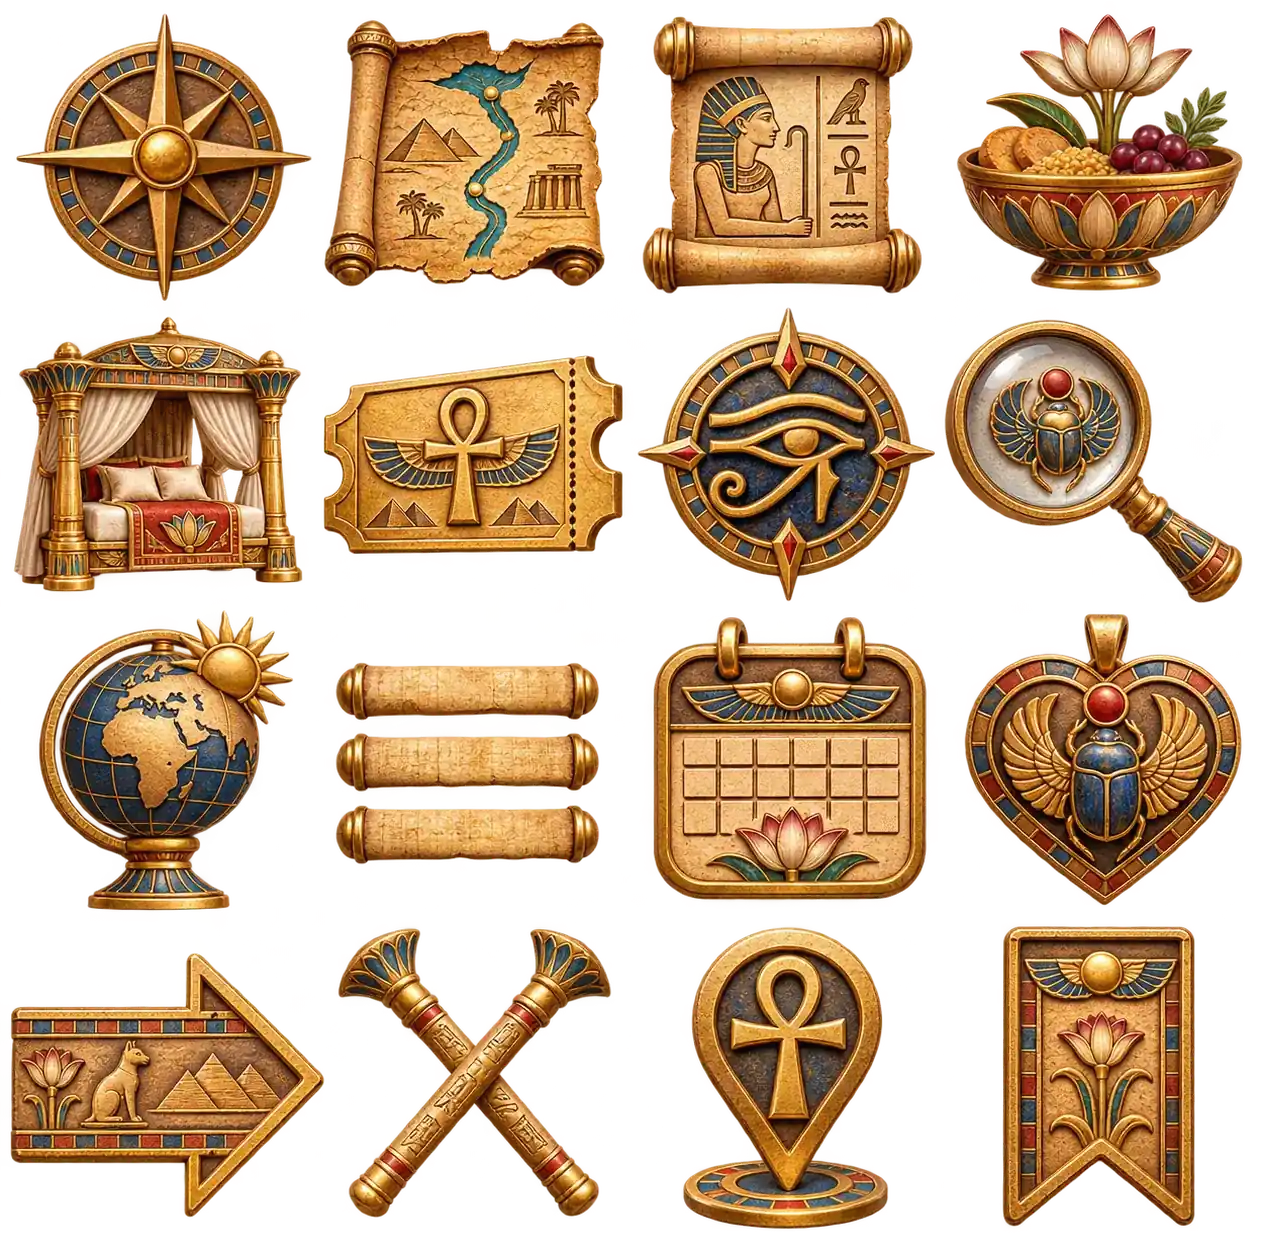
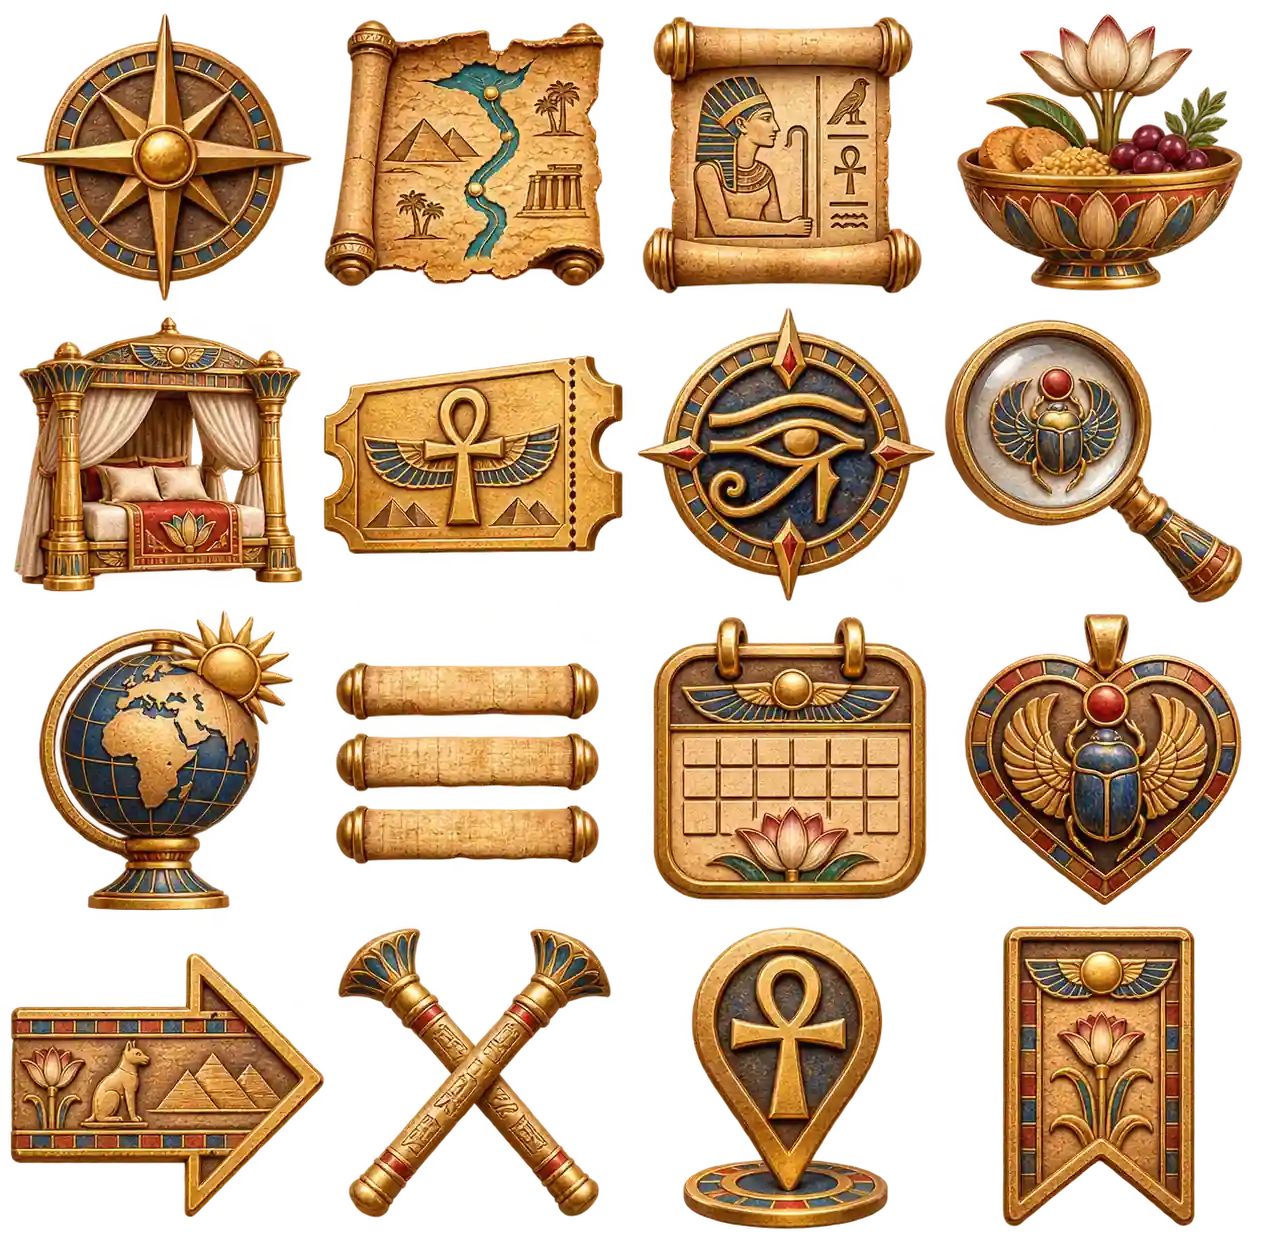
Optimize fonts, critical CSS, and homepage images

diff --git a/app/page.tsx b/app/page.tsx
@@ -480,7 +480,7 @@ export default function Home() {
           <div className="home-category-grid">
             {categories.map((category) => (
               <Link key={category.title} href={category.href} className={"home-category-card home-tone-" + category.tone}>
-                <Image className="home-category-image" src={category.image} alt="" fill sizes="(max-width: 760px) 100vw, 50vw" />
+                <Image className="home-category-image" src={category.image} alt="" fill sizes="(max-width: 760px) 100vw, 50vw" quality={60} />
                 <div className="home-category-overlay" />
                 <span className="home-category-icon"><Icon name={category.icon} size={19} /></span>
                 <div className="home-category-content"><p>{category.label}</p><h3>{category.title}</h3><span>{category.description}</span></div>
@@ -492,7 +492,7 @@ export default function Home() {
 
         {isAdmin ? <AdminWorkspaceSection /> : <section className="home-concierge-section" id="concierge">
           <div className="home-concierge-visual">
-            <Image className="home-concierge-image" src={inquiryMode === "contact" ? "/alpnile-contact-studio-v2.webp" : "/alpnile-concierge-v2.webp"} alt="" fill sizes="(max-width: 980px) 100vw, 50vw" />
+            <Image className="home-concierge-image" src={inquiryMode === "contact" ? "/alpnile-contact-studio-v2.webp" : "/alpnile-concierge-v2.webp"} alt="" fill sizes="(max-width: 980px) 100vw, 50vw" quality={60} />
             <div className="home-concierge-visual-overlay" />
             <div className="home-concierge-visual-caption"><span>ALPNILE CONCIERGE</span><strong>One thoughtful<br />conversation.</strong></div>
           </div>
@@ -537,7 +537,7 @@ export default function Home() {
           <div className="home-city-grid">
             {cities.map((city, index) => (
               <Link key={city.name} href={city.href} className={"home-city-card home-city-card-" + (index + 1)}>
-                <Image className="home-city-image" src={city.image} alt="" fill sizes="(max-width: 760px) 100vw, 50vw" />
+                <Image className="home-city-image" src={city.image} alt="" fill sizes="(max-width: 760px) 100vw, 50vw" quality={60} />
                 <div className="home-city-overlay" />
                 <div className="home-city-content"><p>{city.region}</p><h3>{city.name}</h3><span>{city.description}</span><b>Discover city <Icon name="arrow" size={14} /></b></div>
                 <span className="home-city-index">0{index + 1}</span>
@@ -550,7 +550,7 @@ export default function Home() {
           <SectionHeading eyebrow="The days you will remember" title="Signature trips, thoughtfully made." description="Not a checklist. A point of view — built around atmosphere, timing and the people who make a place feel real." action={{ label: "See every experience", href: "/tours-experiences" }} />
           <div className="home-trip-category-grid" aria-label="Egypt trip categories">
             {tripCategories.map((category, index) => <Link key={category.key} href={category.href} className={`home-trip-category-card home-tone-${category.tone}`}>
-              <span className="home-trip-category-card-image"><Image src={category.image} alt="" fill sizes="(max-width: 760px) 50vw, 25vw" /></span>
+              <span className="home-trip-category-card-image"><Image src={category.image} alt="" fill sizes="(max-width: 760px) 50vw, 25vw" quality={60} /></span>
               <span className="home-trip-category-card-overlay" />
               <span className="home-trip-category-card-top"><span className="home-trip-category-number">{String(index + 1).padStart(2, "0")}</span><span className="home-trip-category-icon"><Icon name={category.icon} size={17} /></span></span>
               <span className="home-trip-category-card-copy"><strong>{category.label}</strong><small>{category.detail}</small></span>
@@ -559,19 +559,19 @@ export default function Home() {
         </section>
 
         <section className="home-stay-feature" id="stays">
-          <div className="home-stay-feature-media"><Image className="home-stay-feature-image" src="/alpnile-stays-hotels-v2.webp" alt="" fill sizes="(max-width: 980px) 100vw, 50vw" /></div>
+          <div className="home-stay-feature-media"><Image className="home-stay-feature-image" src="/alpnile-stays-hotels-v2.webp" alt="" fill sizes="(max-width: 980px) 100vw, 50vw" quality={60} /></div>
           <div className="home-stay-feature-copy">
             <p className="home-redesign-eyebrow">Sleep somewhere with a story</p>
             <h2>Stay close<br /><em>to the feeling.</em></h2>
             <p>From heritage residences beside the Nile to private homes made for slow mornings, choose a place that becomes part of the journey.</p>
             <Link className="home-redesign-primary-button" href="/stays-hotels">Find your stay <Icon name="arrow" size={16} /></Link>
-            <div className="home-stay-mini-list">{homes.map((home) => <Link key={home.name} href={home.href}><span className="home-stay-mini-image"><Image src={home.image} alt="" fill sizes="41px" /></span><span><strong>{home.name}</strong><small>{home.place}</small></span><Icon name="arrow" size={13} /></Link>)}</div>
+            <div className="home-stay-mini-list">{homes.map((home) => <Link key={home.name} href={home.href}><span className="home-stay-mini-image"><Image src={home.image} alt="" fill sizes="41px" quality={60} /></span><span><strong>{home.name}</strong><small>{home.place}</small></span><Icon name="arrow" size={13} /></Link>)}</div>
           </div>
         </section>
 
         <section className="home-redesign-section home-market-section" id="market">
           <div className="home-market-archive">
-            <div className="home-market-archive-bg" aria-hidden="true"><Image className="home-market-archive-bg-image" src="/alpnile-artifacts-3d.webp" alt="" fill sizes="100vw" /></div>
+          <div className="home-market-archive-bg" aria-hidden="true"><Image className="home-market-archive-bg-image" src="/alpnile-artifacts-3d.webp" alt="" fill sizes="100vw" quality={60} /></div>
             <div className="home-market-archive-panel">
               <div className="home-market-archive-copy">
                 <p className="home-market-chapter">01 <i /> 06 CHAPTERS</p>
@@ -593,7 +593,7 @@ export default function Home() {
               <div className="home-market-archive-explore">
                 <div className="home-market-explore-head"><div><p className="home-redesign-eyebrow">Objects with a sense of place</p><h3>Explore artifacts</h3></div><Link href="/market">View all <Icon name="arrow" size={13} /></Link></div>
                 <div className="home-market-artifact-grid">
-                  {products.map((product, index) => <Link key={product.name} href={product.href} className="home-market-artifact-card"><span className="home-market-artifact-number">0{index + 1}</span><div className="home-market-artifact-image"><Image src={product.image} alt="" fill sizes="(max-width: 760px) 100vw, 33vw" /></div><span className="home-market-artifact-copy"><strong>{product.name}</strong><small>{product.detail}</small></span><Icon name="arrow" size={13} /></Link>)}
+                  {products.map((product, index) => <Link key={product.name} href={product.href} className="home-market-artifact-card"><span className="home-market-artifact-number">0{index + 1}</span><div className="home-market-artifact-image"><Image src={product.image} alt="" fill sizes="(max-width: 760px) 100vw, 33vw" quality={60} /></div><span className="home-market-artifact-copy"><strong>{product.name}</strong><small>{product.detail}</small></span><Icon name="arrow" size={13} /></Link>)}
                 </div>
                 <p className="home-market-archive-note"><span /> Where the river became a kingdom, and stone learned to speak.</p>
               </div>
@@ -645,7 +645,7 @@ export default function Home() {
         </section>
 
         {!isAdmin && <section className="home-car-section" id="car-booking">
-          <div className="home-car-background" aria-hidden="true"><Image className="home-car-background-image" src="/alpnile-cars-v2.webp" alt="" fill sizes="100vw" /></div>
+                  <div className="home-car-background" aria-hidden="true"><Image className="home-car-background-image" src="/alpnile-cars-v2.webp" alt="" fill sizes="100vw" quality={60} /></div>
           <div className="home-car-shade" aria-hidden="true" />
           <div className="home-car-content">
              <div className="home-car-copy"><p className="home-redesign-eyebrow">Your road, your rhythm</p><h2>Move through Egypt<br /><em>with ease.</em></h2><p>Book a comfortable tourist car and keep the day open for the moments that were not on the itinerary.</p><div className="home-car-points"><span><Icon name="car" size={16} /> Comfortable cars</span><span><Icon name="pin" size={16} /> Local route support</span><span><Icon name="spark" size={16} /> Flexible days</span></div><Link className="home-car-transport-link" href="/travel-transport">Explore Travel &amp; Transport</Link></div>

diff --git a/app/globals.css b/app/globals.css
@@ -1,59 +1,3 @@
-@font-face {
-  font-family: "Cormorant Garamond";
-  font-style: normal;
-  font-weight: 500;
-  font-display: swap;
-  src: url("/fonts/cormorant-garamond-500.ttf") format("truetype");
-}
-
-@font-face {
-  font-family: "Cormorant Garamond";
-  font-style: normal;
-  font-weight: 600;
-  font-display: swap;
-  src: url("/fonts/cormorant-garamond-600.ttf") format("truetype");
-}
-
-@font-face {
-  font-family: "Cormorant Garamond";
-  font-style: normal;
-  font-weight: 700;
-  font-display: swap;
-  src: url("/fonts/cormorant-garamond-700.ttf") format("truetype");
-}
-
-@font-face {
-  font-family: "Manrope";
-  font-style: normal;
-  font-weight: 400;
-  font-display: swap;
-  src: url("/fonts/manrope-400.ttf") format("truetype");
-}
-
-@font-face {
-  font-family: "Manrope";
-  font-style: normal;
-  font-weight: 500;
-  font-display: swap;
-  src: url("/fonts/manrope-500.ttf") format("truetype");
-}
-
-@font-face {
-  font-family: "Manrope";
-  font-style: normal;
-  font-weight: 600;
-  font-display: swap;
-  src: url("/fonts/manrope-600.ttf") format("truetype");
-}
-
-@font-face {
-  font-family: "Manrope";
-  font-style: normal;
-  font-weight: 700;
-  font-display: swap;
-  src: url("/fonts/manrope-700.ttf") format("truetype");
-}
-
 @tailwind base;
 @tailwind components;
 @tailwind utilities;
@@ -5249,7 +5193,7 @@ body::-webkit-scrollbar-thumb:hover {
 
 /* Premium typography and the AlpNile pharaonic 3D icon language. */
 body {
-  font-family: "Manrope", Arial, Helvetica, sans-serif;
+  font-family: var(--font-manrope), Arial, Helvetica, sans-serif;
   letter-spacing: -.005em;
 }
 
@@ -5258,7 +5202,7 @@ h2,
 h3,
 h4,
 .font-display {
-  font-family: "Cormorant Garamond", Georgia, "Times New Roman", serif !important;
+  font-family: var(--font-cormorant), Georgia, "Times New Roman", serif !important;
   font-weight: 600;
   letter-spacing: -.025em;
 }
@@ -9565,7 +9509,7 @@ form .site-select:focus,
 }
 
 /* Habu Sunset Villa direct-booking experience. */
-.villa-booking-page { --villa-ink: #183332; --villa-teal: #1e6260; --villa-gold: #c48a42; --villa-line: #dfe5df; --villa-paper: #f7f8f4; min-height: 100vh; overflow: hidden; color: var(--villa-ink); background: #f7f8f4; color-scheme: light; font-family: Manrope, Arial, sans-serif; }
+.villa-booking-page { --villa-ink: #183332; --villa-teal: #1e6260; --villa-gold: #c48a42; --villa-line: #dfe5df; --villa-paper: #f7f8f4; min-height: 100vh; overflow: hidden; color: var(--villa-ink); background: #f7f8f4; color-scheme: light; font-family: var(--font-manrope), Arial, sans-serif; }
 .villa-booking-wrap { width: min(1240px, calc(100% - 48px)); margin: 0 auto; }
 .villa-booking-topline { color: #f5f5ee; background: #12302f; font-size: 10px; letter-spacing: .06em; }
 .villa-booking-topline-inner { display: flex; align-items: center; justify-content: space-between; gap: 14px; min-height: 36px; }
@@ -9908,7 +9852,7 @@ form .site-select:focus,
 @media (max-width: 600px) { .admin-rate-row { grid-template-columns: 42px minmax(0, 1fr) auto; gap: 9px; } .admin-rate-name { grid-column: 2 / -1; grid-row: 2; } .admin-rate-row input { grid-column: 1 / -1; grid-row: 3; } .admin-rate-symbol { grid-column: 3; grid-row: 1; } .admin-pagination-count { width: 100%; margin-left: 0; } .admin-editor-image-actions { grid-template-columns: 1fr; } .admin-editor-remove-image { min-height: 42px; } .admin-editor-gallery-preview { grid-template-columns: repeat(2, minmax(0, 1fr)); } }
 
 /* Stays catalogue: homes, hotel rooms, apartments and villas. */
-.stays-catalog-page { min-height: 100vh; overflow: hidden; color: #193433; background: #f6f8f4; font-family: Manrope, Arial, sans-serif; }
+.stays-catalog-page { min-height: 100vh; overflow: hidden; color: #193433; background: #f6f8f4; font-family: var(--font-manrope), Arial, sans-serif; }
 .stays-catalog-wrap { width: min(1240px, calc(100% - 48px)); margin: 0 auto; }
 .stays-catalog-hero { position: relative; overflow: hidden; padding: 64px 0 42px; color: #f0f4ec; background: linear-gradient(105deg, rgba(8, 34, 34, .98) 0%, rgba(11, 56, 53, .88) 56%, rgba(11, 56, 53, .55) 100%), url('/alpnile-stays-hotels-hero.webp') center 48% / cover; }
 .stays-catalog-hero::after { position: absolute; inset: 0; pointer-events: none; background: radial-gradient(circle at 82% 11%, rgba(239, 189, 104, .22), transparent 27%), linear-gradient(90deg, transparent, rgba(255,255,255,.04)); content: ""; }
@@ -10087,7 +10031,7 @@ footer.site-stays-chrome .site-footer-newsletter-form button { color: #fff; back
 footer.site-stays-chrome .site-footer-newsletter-success { color: #2f8063; }
 
 /* Desert bazaar storefront. */
-.bazaar-page { min-height: 100vh; overflow: hidden; color: #39271b; background: #f7f0e4; font-family: Manrope, Arial, sans-serif; }
+.bazaar-page { min-height: 100vh; overflow: hidden; color: #39271b; background: #f7f0e4; font-family: var(--font-manrope), Arial, sans-serif; }
 .bazaar-wrap { width: min(1180px, calc(100% - 48px)); margin: 0 auto; }
 .bazaar-hero { position: relative; overflow: hidden; min-height: 565px; color: #f8eddc; background: radial-gradient(circle at 75% 20%, rgba(222,155,75,.25), transparent 25%), linear-gradient(116deg, #241912 0%, #5a3421 52%, #a56836 100%); }
 .bazaar-hero::before { position: absolute; inset: 0; background: linear-gradient(90deg, rgba(22,13,9,.72), transparent 62%), repeating-linear-gradient(112deg, transparent 0 68px, rgba(255,225,174,.05) 69px 70px); content: ""; }

diff --git a/app/layout.tsx b/app/layout.tsx
@@ -1,4 +1,5 @@
 import type { Metadata, Viewport } from "next";
+import localFont from "next/font/local";
 import "./globals.css";
 import { LanguageProvider } from "./components/language";
 import { CurrencyProvider } from "./components/currency";
@@ -7,6 +8,31 @@ import { BackToTop, SiteFooter, SiteHeader } from "./components/site-chrome";
 import DeferredChatWidget from "./components/deferred-chat-widget";
 import { SITE_CONTACT } from "./lib/site-config";
 import { absoluteUrl, serializeJsonLd, SITE_DESCRIPTION, SITE_KEYWORDS, SITE_NAME, SITE_SOCIAL_IMAGE, SITE_SOCIAL_LINKS, SITE_URL } from "./lib/seo";
+
+const cormorantGaramond = localFont({
+  src: [
+    { path: "../public/fonts/cormorant-garamond-500.ttf", weight: "500" },
+    { path: "../public/fonts/cormorant-garamond-600.ttf", weight: "600" },
+    { path: "../public/fonts/cormorant-garamond-700.ttf", weight: "700" },
+  ],
+  variable: "--font-cormorant",
+  display: "swap",
+  adjustFontFallback: "Times New Roman",
+  preload: false,
+});
+
+const manrope = localFont({
+  src: [
+    { path: "../public/fonts/manrope-400.ttf", weight: "400" },
+    { path: "../public/fonts/manrope-500.ttf", weight: "500" },
+    { path: "../public/fonts/manrope-600.ttf", weight: "600" },
+    { path: "../public/fonts/manrope-700.ttf", weight: "700" },
+  ],
+  variable: "--font-manrope",
+  display: "swap",
+  adjustFontFallback: "Arial",
+  preload: false,
+});
 
 export const metadata: Metadata = {
   metadataBase: new URL(SITE_URL),
@@ -89,7 +115,7 @@ export default function RootLayout({ children }: Readonly<{ children: React.Reac
   };
 
   return (
-    <html lang="en">
+    <html lang="en" className={`${manrope.variable} ${cormorantGaramond.variable}`}>
       <body>
         <script type="application/ld+json" dangerouslySetInnerHTML={{ __html: serializeJsonLd(jsonLd) }} />
         <LanguageProvider>

diff --git a/app/components/home-welcome-gate.tsx b/app/components/home-welcome-gate.tsx
@@ -62,7 +62,7 @@ export function HomeWelcomeGate() {
           <div className="welcome-visual-halo" aria-hidden="true" />
           <div className="welcome-visual-frame">
             <span className="welcome-visual-chip">THE NILE / 01</span>
-            <Image src="/alpnile-welcome-pharaoh.webp" alt="Golden and deep blue pharaoh sculpture" width={900} height={1200} sizes="(max-width: 760px) 82vw, 44vw" preload />
+            <Image src="/alpnile-welcome-pharaoh.webp" alt="Golden and deep blue pharaoh sculpture" width={900} height={1200} sizes="(max-width: 760px) 82vw, 44vw" preload quality={60} />
             <div className="welcome-visual-reflection" aria-hidden="true" />
           </div>
           <div className="welcome-visual-caption"><span>EGYPT / TIMELESS</span><strong>Begin with wonder.</strong><p>One river. A thousand stories.</p></div>

diff --git a/app/components/home-hero.tsx b/app/components/home-hero.tsx
@@ -76,6 +76,7 @@ export function HomeHero({ onSubmit, secondaryHref = "/#categories", isAdmin = f
         sizes="100vw"
         preload={heroSlide === 0}
         fetchPriority={heroSlide === 0 ? "high" : "auto"}
+        quality={60}
         aria-hidden="true"
       />
       <div className="home-redesign-hero-shade" aria-hidden="true" />
